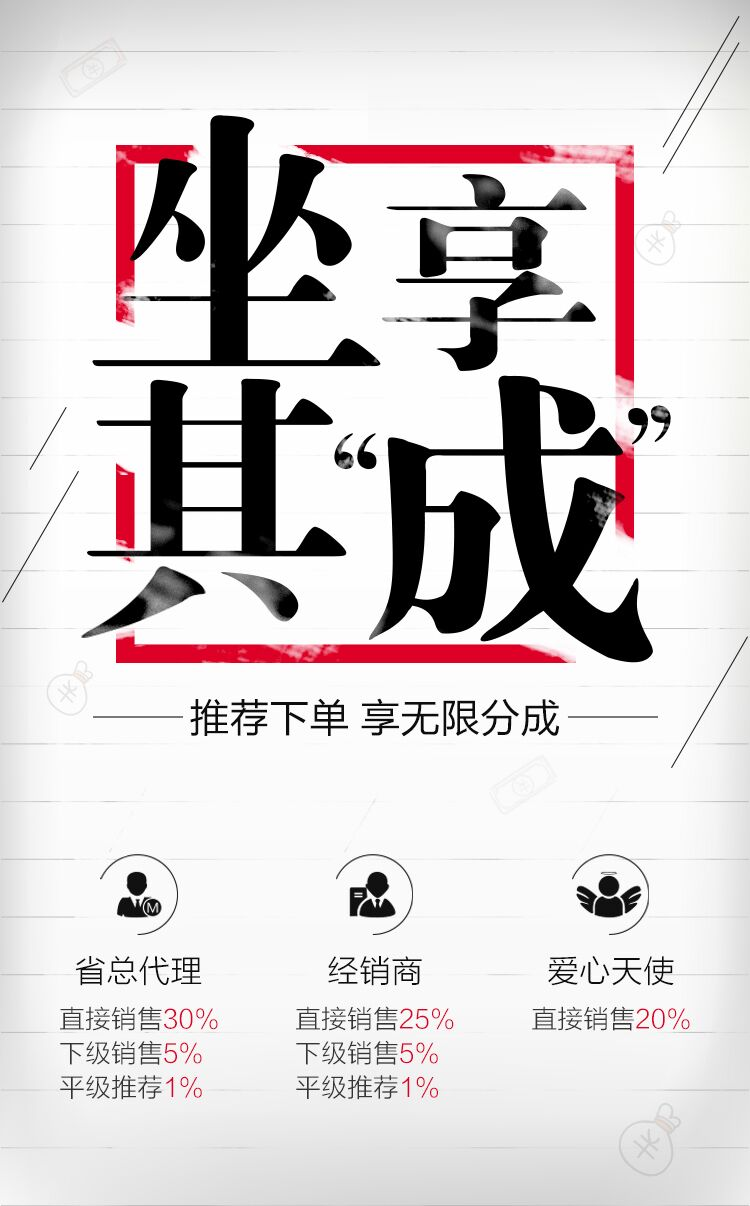
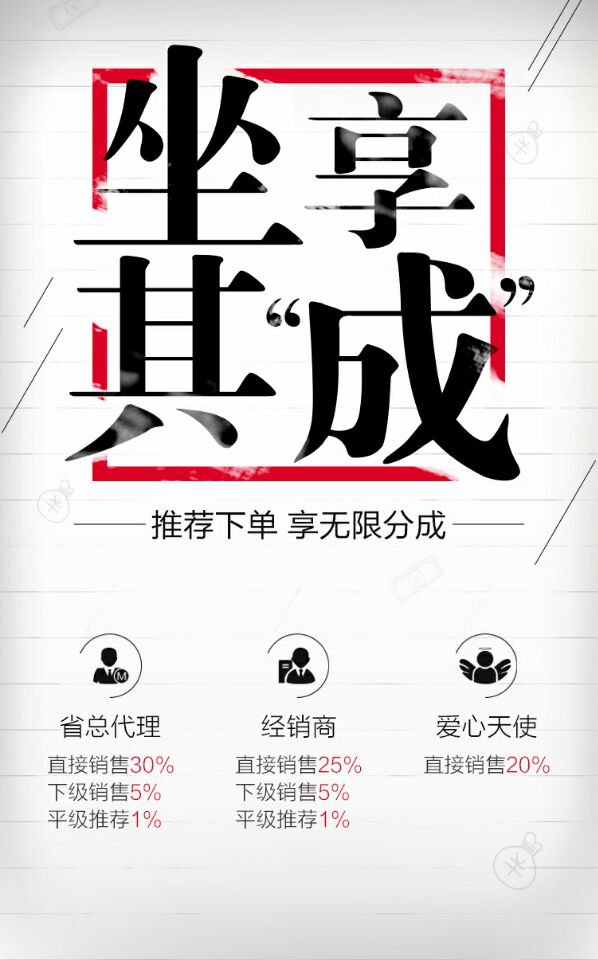
海报页面 注释的为 成为的

diff --git a/wechat-service/src/main/resources/wechat-view/chance.html b/wechat-service/src/main/resources/wechat-view/chance.html
@@ -16,9 +16,11 @@
     <link rel="stylesheet" href="../wechat-resource/assets/css/custom.css"
           th:href="@{/wechat-resource/assets/css/custom.css}">
 </head>
-<!--view-poster-1 成为-->
-<!--view-poster-2 升级-->
-<body class="view-fs-small view-poster-2">
+<body class="view-fs-small view-poster">
+<section>
+    <!--<img src="../wechat-resource/assets/img/poster-1.jpg" alt="poster">-->
+    <img src="../wechat-resource/assets/img/poster-2.jpg" alt="poster">
+</section>
 <footer class="view_footer-fixed view_footer-noBg">
     <div class="weui-footer weui-footer_fixed-bottom">
         <div class="weui-btn-area">

diff --git a/wechat-service/src/main/resources/wechat-view/shareQC.html b/wechat-service/src/main/resources/wechat-view/shareQC.html
@@ -30,8 +30,8 @@
              alt="分享二维码">
     </p>
     <div class="text-center">
-        <p>分享给朋友，收获更多财富</p>
-        <p>更多机会，请点击点击右上角</p>
+        <p>分享即能赚钱。</p>
+        <p>更多机会，请点击：合伙人升级</p>
     </div>
     <!--<p class="view-share-qc">-->
         <!--<a href="javascript:;" class="weui-btn weui-btn_plain-default">分享给朋友</a>-->

diff --git a/wechat-service/src/main/resources/wechat-resource/assets/css/custom.css b/wechat-service/src/main/resources/wechat-resource/assets/css/custom.css
@@ -1082,13 +1082,10 @@
   width: 160px;
   height: 160px;
 }
-.view-poster-1 {
-  background: url("../img/poster-1.jpg") no-repeat;
-  background-size: 100% 100%;
-}
-.view-poster-2 {
-  background: url("../img/poster-2.jpg") no-repeat;
-  background-size: 100% 100%;
+.view-poster img {
+  width: 100%;
+  max-width: 100%;
+  min-height: 100%;
 }
 .view_footer-noBg .weui-footer_fixed-bottom {
   border-top: none;

diff --git a/wechat-service/src/main/resources/wechat-resource/assets/css/custom.less b/wechat-service/src/main/resources/wechat-resource/assets/css/custom.less
@@ -1242,14 +1242,11 @@
   }
 }
 
-.view-poster-1 {
-  background: url("../img/poster-1.jpg") no-repeat;
-  background-size: 100% 100%;
-}
-
-.view-poster-2 {
-  background: url("../img/poster-2.jpg") no-repeat;
-  background-size: 100% 100%;
+.view-poster {
+  img {
+    width: 100%;
+    max-width: 100%;
+  }
 }
 
 .view_footer-noBg {
